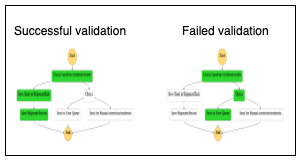
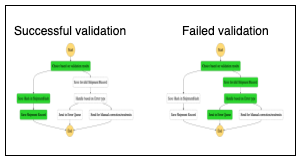
Persist invalid records into DDB

diff --git a/functions/dynamodb_table_deletion/ddb_table_handler.py b/functions/dynamodb_table_deletion/ddb_table_handler.py
@@ -5,6 +5,7 @@ import uuid
 
 SHIPMENT_HASH_TABLE = os.getenv('SHIPMENT_HASH_TABLE')
 SHIPMENT_RECORD_TABLE = os.getenv('SHIPMENT_RECORD_TABLE')
+INVALID_SHIPMENT_RECORD_TABLE = os.getenv('INVALID_SHIPMENT_RECORD_TABLE')
 AIRWAYS_SHIPMENT_TABLE = os.getenv('AIRWAYS_SHIPMENT_TABLE')
 
 dynamodb = boto3.resource('dynamodb')
@@ -213,6 +214,7 @@ def lambda_handler(event, context):
     # Faster to recreate Tables with on-demand capacity
     recreateTable(AIRWAYS_SHIPMENT_TABLE, 'shipmentRecordID', None)
     recreateTable(SHIPMENT_RECORD_TABLE, 'addrDateHash', 'recordId')
+    recreateTable(INVALID_SHIPMENT_RECORD_TABLE, 'addrDateHash', 'recordId')
     recreateTable(SHIPMENT_HASH_TABLE, 'addrHashCode', 'addrDateHash')
 
 

diff --git a/README.md b/README.md
@@ -77,7 +77,7 @@ The main aggregation workflow is decoupled from the final carrier invocations us
 * `OrderValidatorFunction` Lambda function subscribed to the `ShipmentRecordQueue` SQS Queue consumes the batch of messages and starts validating the entries and marks errors as required.
   * For each individual message, the function creates a hash based on the shipping destination address.
   * It then invokes `BusinessValidationStateMachine1` Step Function for each individual message passing along the actual shipment record, address hash along with any validation errors.
-* `BusinessValidationStateMachine1` Step Function goes through a decision tree to either process normally, put the record for error handling via a DLQ (`ShipmentRecordDLQueue`) or manual resubmission via  a different queue (`ShipmentRecordManualResubmitQueueName`) based on the error type.
+* `BusinessValidationStateMachine1` Step Function goes through a decision tree to either process normally, and for invalid shipment submissions, save them in `InvalidShipmentRecord` table before deciding error handling via a Dead Letter Queue (DLQ) (`ShipmentRecordDLQueue`) or manual resubmission via  a different queue (`ShipmentRecordManualResubmitQueueName`) based on the error type.
 * Fully validated and error free shipments are then saved in DynamoDB Tables. The specific Address Hash is saved in `ShipmentHash` table with status indicating it was not processed while the complete message including the shipment record and addr hash is saved in `ShipmentRecord` table.
 * Once all the messages have been validated and saved using the above 2 services, the messages can be aggregated and processed for actual shipment.
 * The `AggregationKickoffStateMachine2` is invoked (no need for actual payload) and it queries DynamoDB `ShipmentHash` table for unprocessed unique addresses.
@@ -119,6 +119,7 @@ The `sam build` command will build the source of your application (this requires
 * **ShipmentRecordDLQueueName**: name of the SQS Dead Letter Queue for messages that failed validation and cannot be resubmitted manually with minor tweaks; default value: `ShipmentRecordDLQueue`
 * **ShipmentHashTableName**: DynamoDB table persisting the unique address hashes; default value: `ShipmentHash`
 * **ShipmentRecordTableName**: DynamoDB table persisting the individual shipment records; default value: `ShipmentRecord`
+* **InvalidShipmentRecordTableName**: DynamoDB table persisting the individual invalid shipment records; default value: `InvalidShipmentRecord`
 * **AirwaysShipmentDetailTableName**: name of the DynamoDB Table to store the airways shipment detail for each unique shipment address; default value: `AirwaysShipmentDetail`
 * **Confirm changes before deploy**: If set to yes, any change sets will be shown to you before execution for manual review. If set to no, the AWS SAM CLI will automatically deploy application changes.
 * **Allow SAM CLI IAM role creation**: Many AWS SAM templates, including this example, create AWS IAM roles required for the AWS Lambda function(s) included to access AWS services. By default, these are scoped down to minimum required permissions. To deploy an AWS CloudFormation stack which creates or modifies IAM roles, the `CAPABILITY_IAM` value for `capabilities` must be provided. If permission isn't provided through this prompt, to deploy this example you must explicitly pass `--capabilities CAPABILITY_IAM` to the `sam deploy` command.
